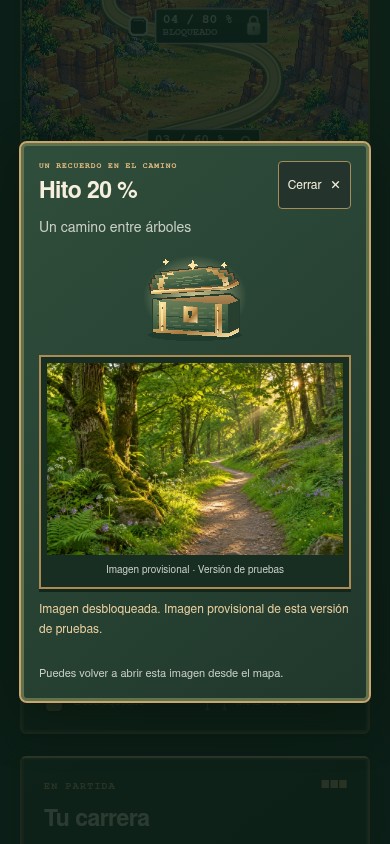
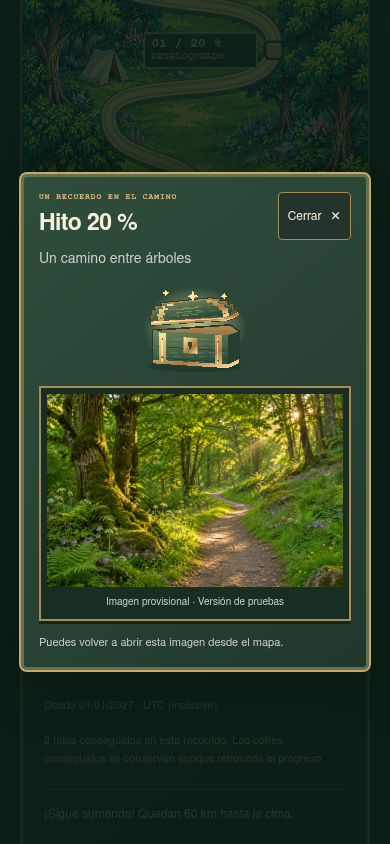
fix: remove redundant milestone image status message

diff --git a/frontend/js/milestone-dialog.js b/frontend/js/milestone-dialog.js
@@ -33,7 +33,8 @@ export function createMilestoneReveals({ root, dialog, milestones, history }) {
     dialog.dataset.phase = phase;
     $('reward-chest').classList.add('is-open');
     $('reward-photo-wrap').hidden = false;
-    $('reward-status').textContent = 'Imagen desbloqueada. Imagen provisional de esta versión de pruebas.';
+    $('reward-status').textContent = '';
+    $('reward-status').hidden = true;
     updateControls();
     if (skipHadFocus) ($('reward-next').hidden ? $('reward-close') : $('reward-next')).focus();
   }
@@ -52,6 +53,7 @@ export function createMilestoneReveals({ root, dialog, milestones, history }) {
     $('reward-photo').hidden = false;
     $('reward-title').textContent = `Hito ${number.format(definitions.get(current).percent)} %`;
     $('reward-description').textContent = photo.title;
+    $('reward-status').hidden = false;
     $('reward-status').textContent = 'Has llegado a un nuevo recuerdo. El cofre se está abriendo.';
     $('reward-photo').alt = photo.alt;
     $('reward-photo').onerror = () => {
